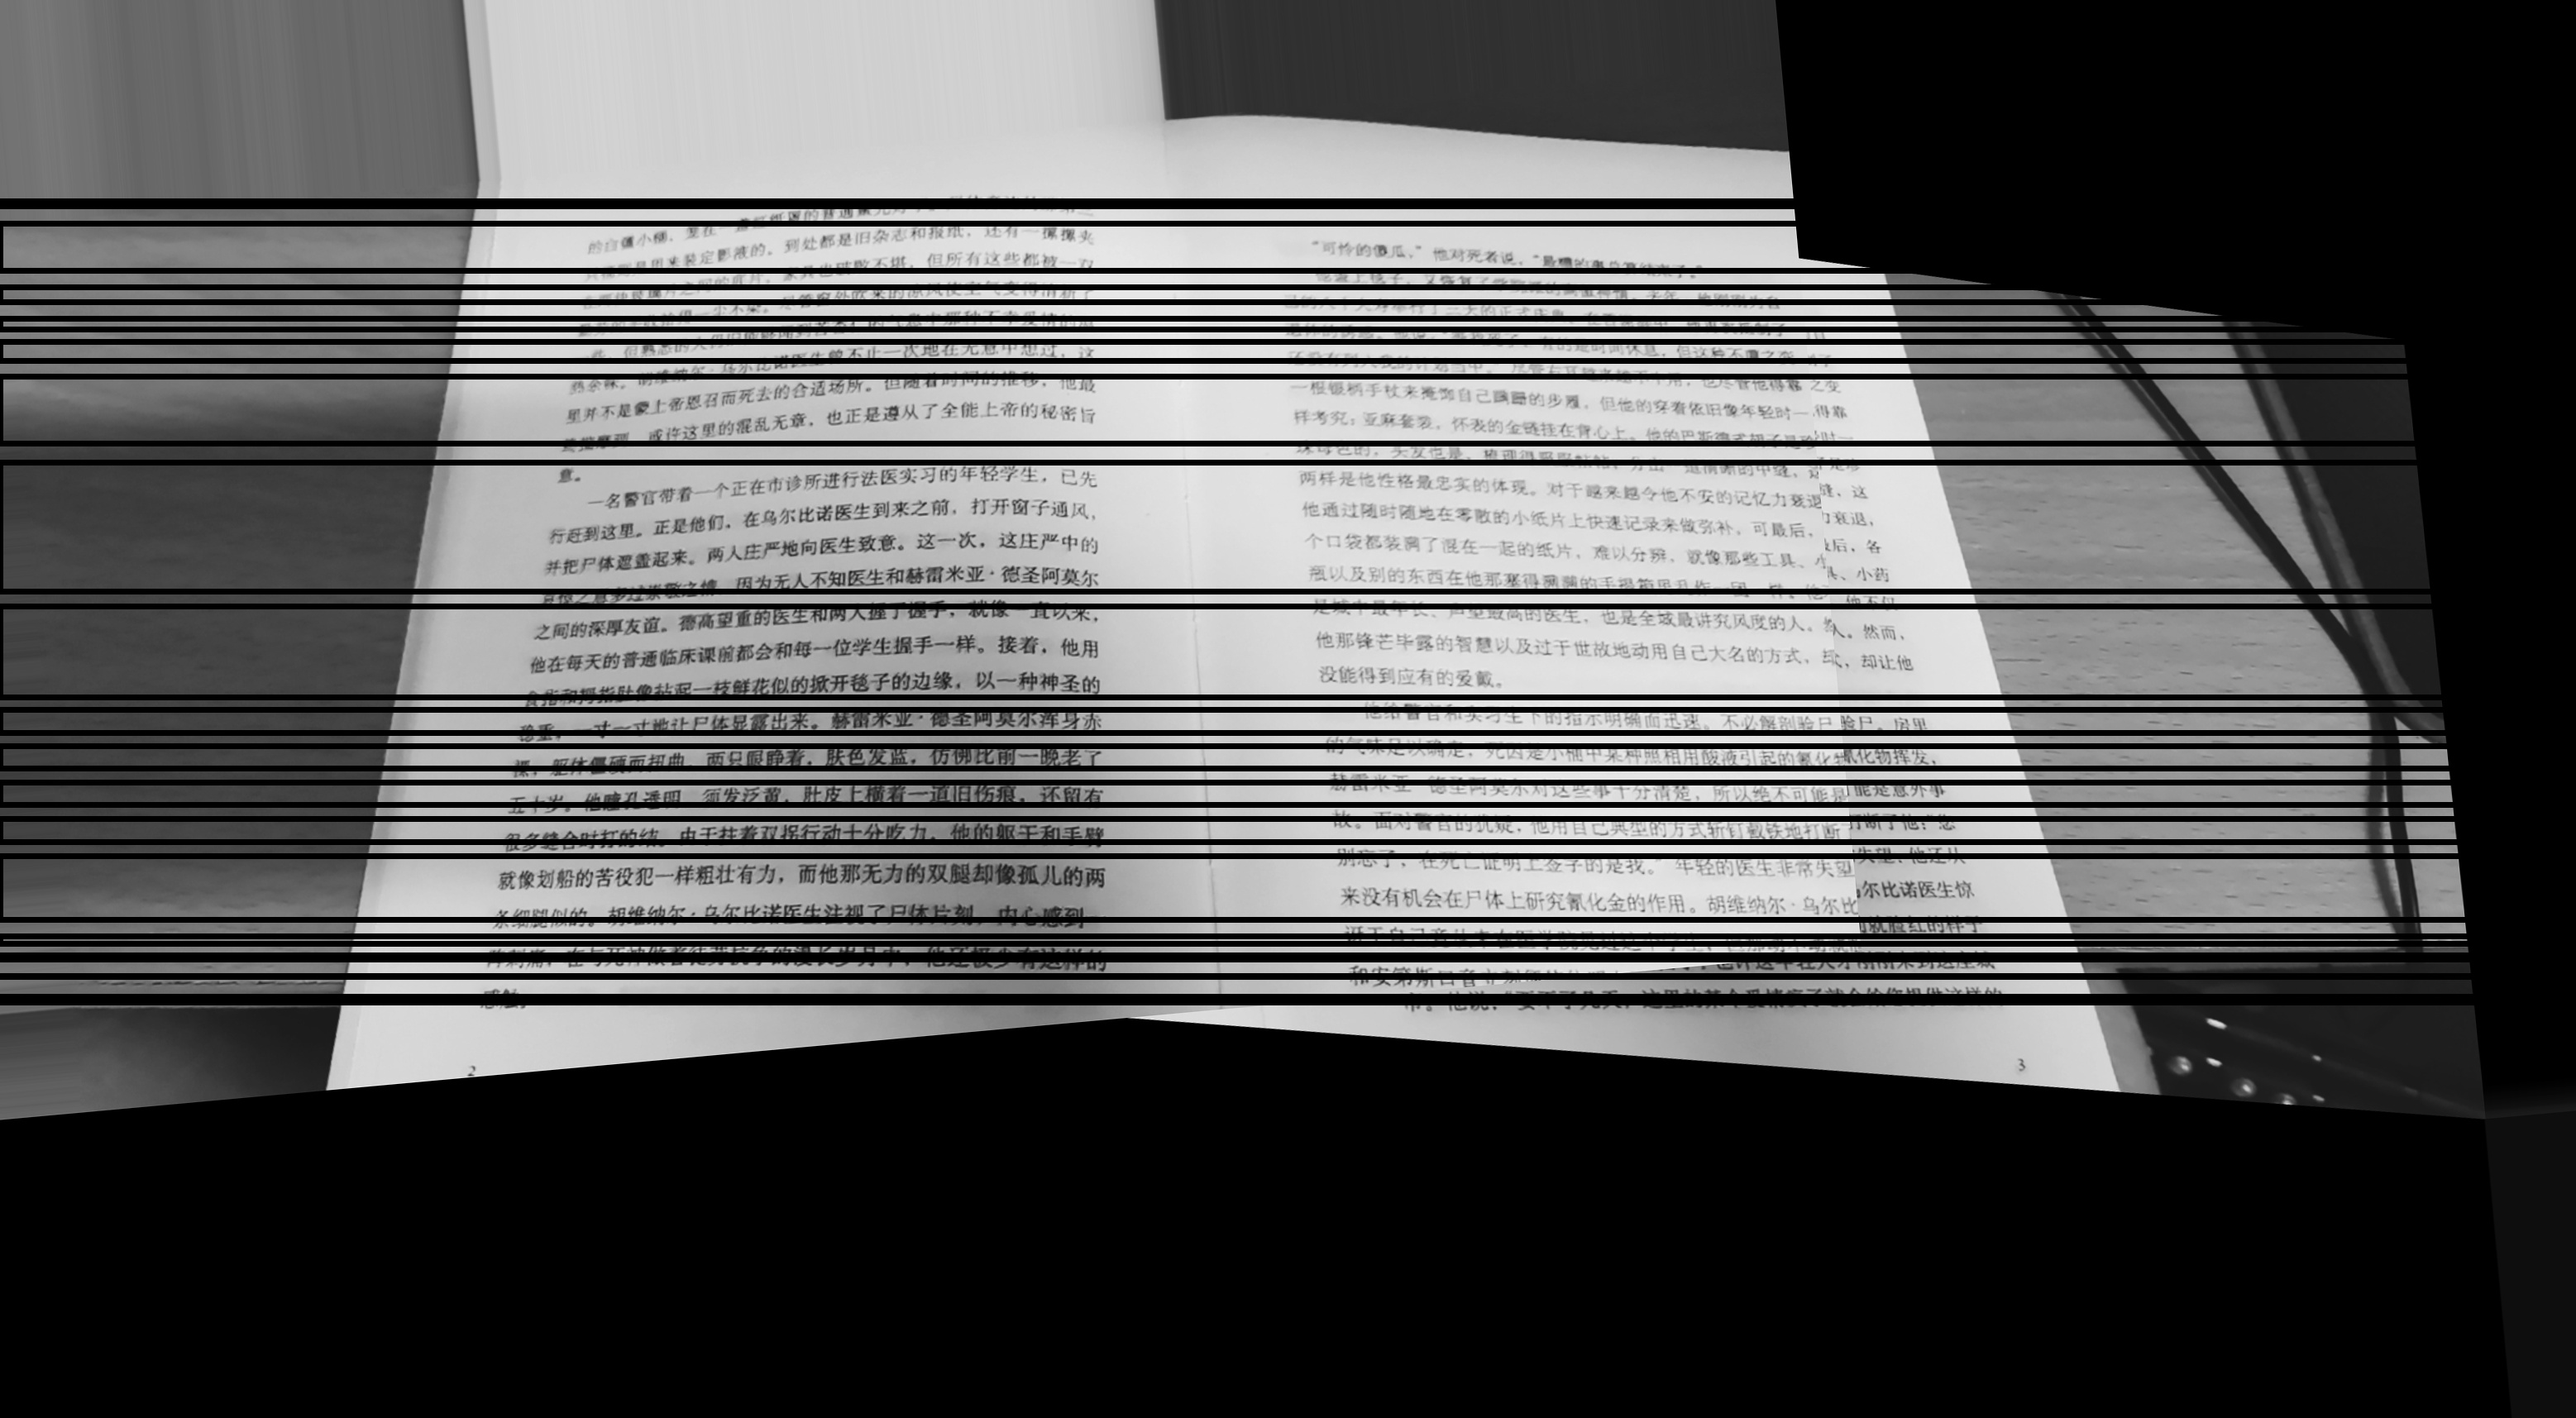
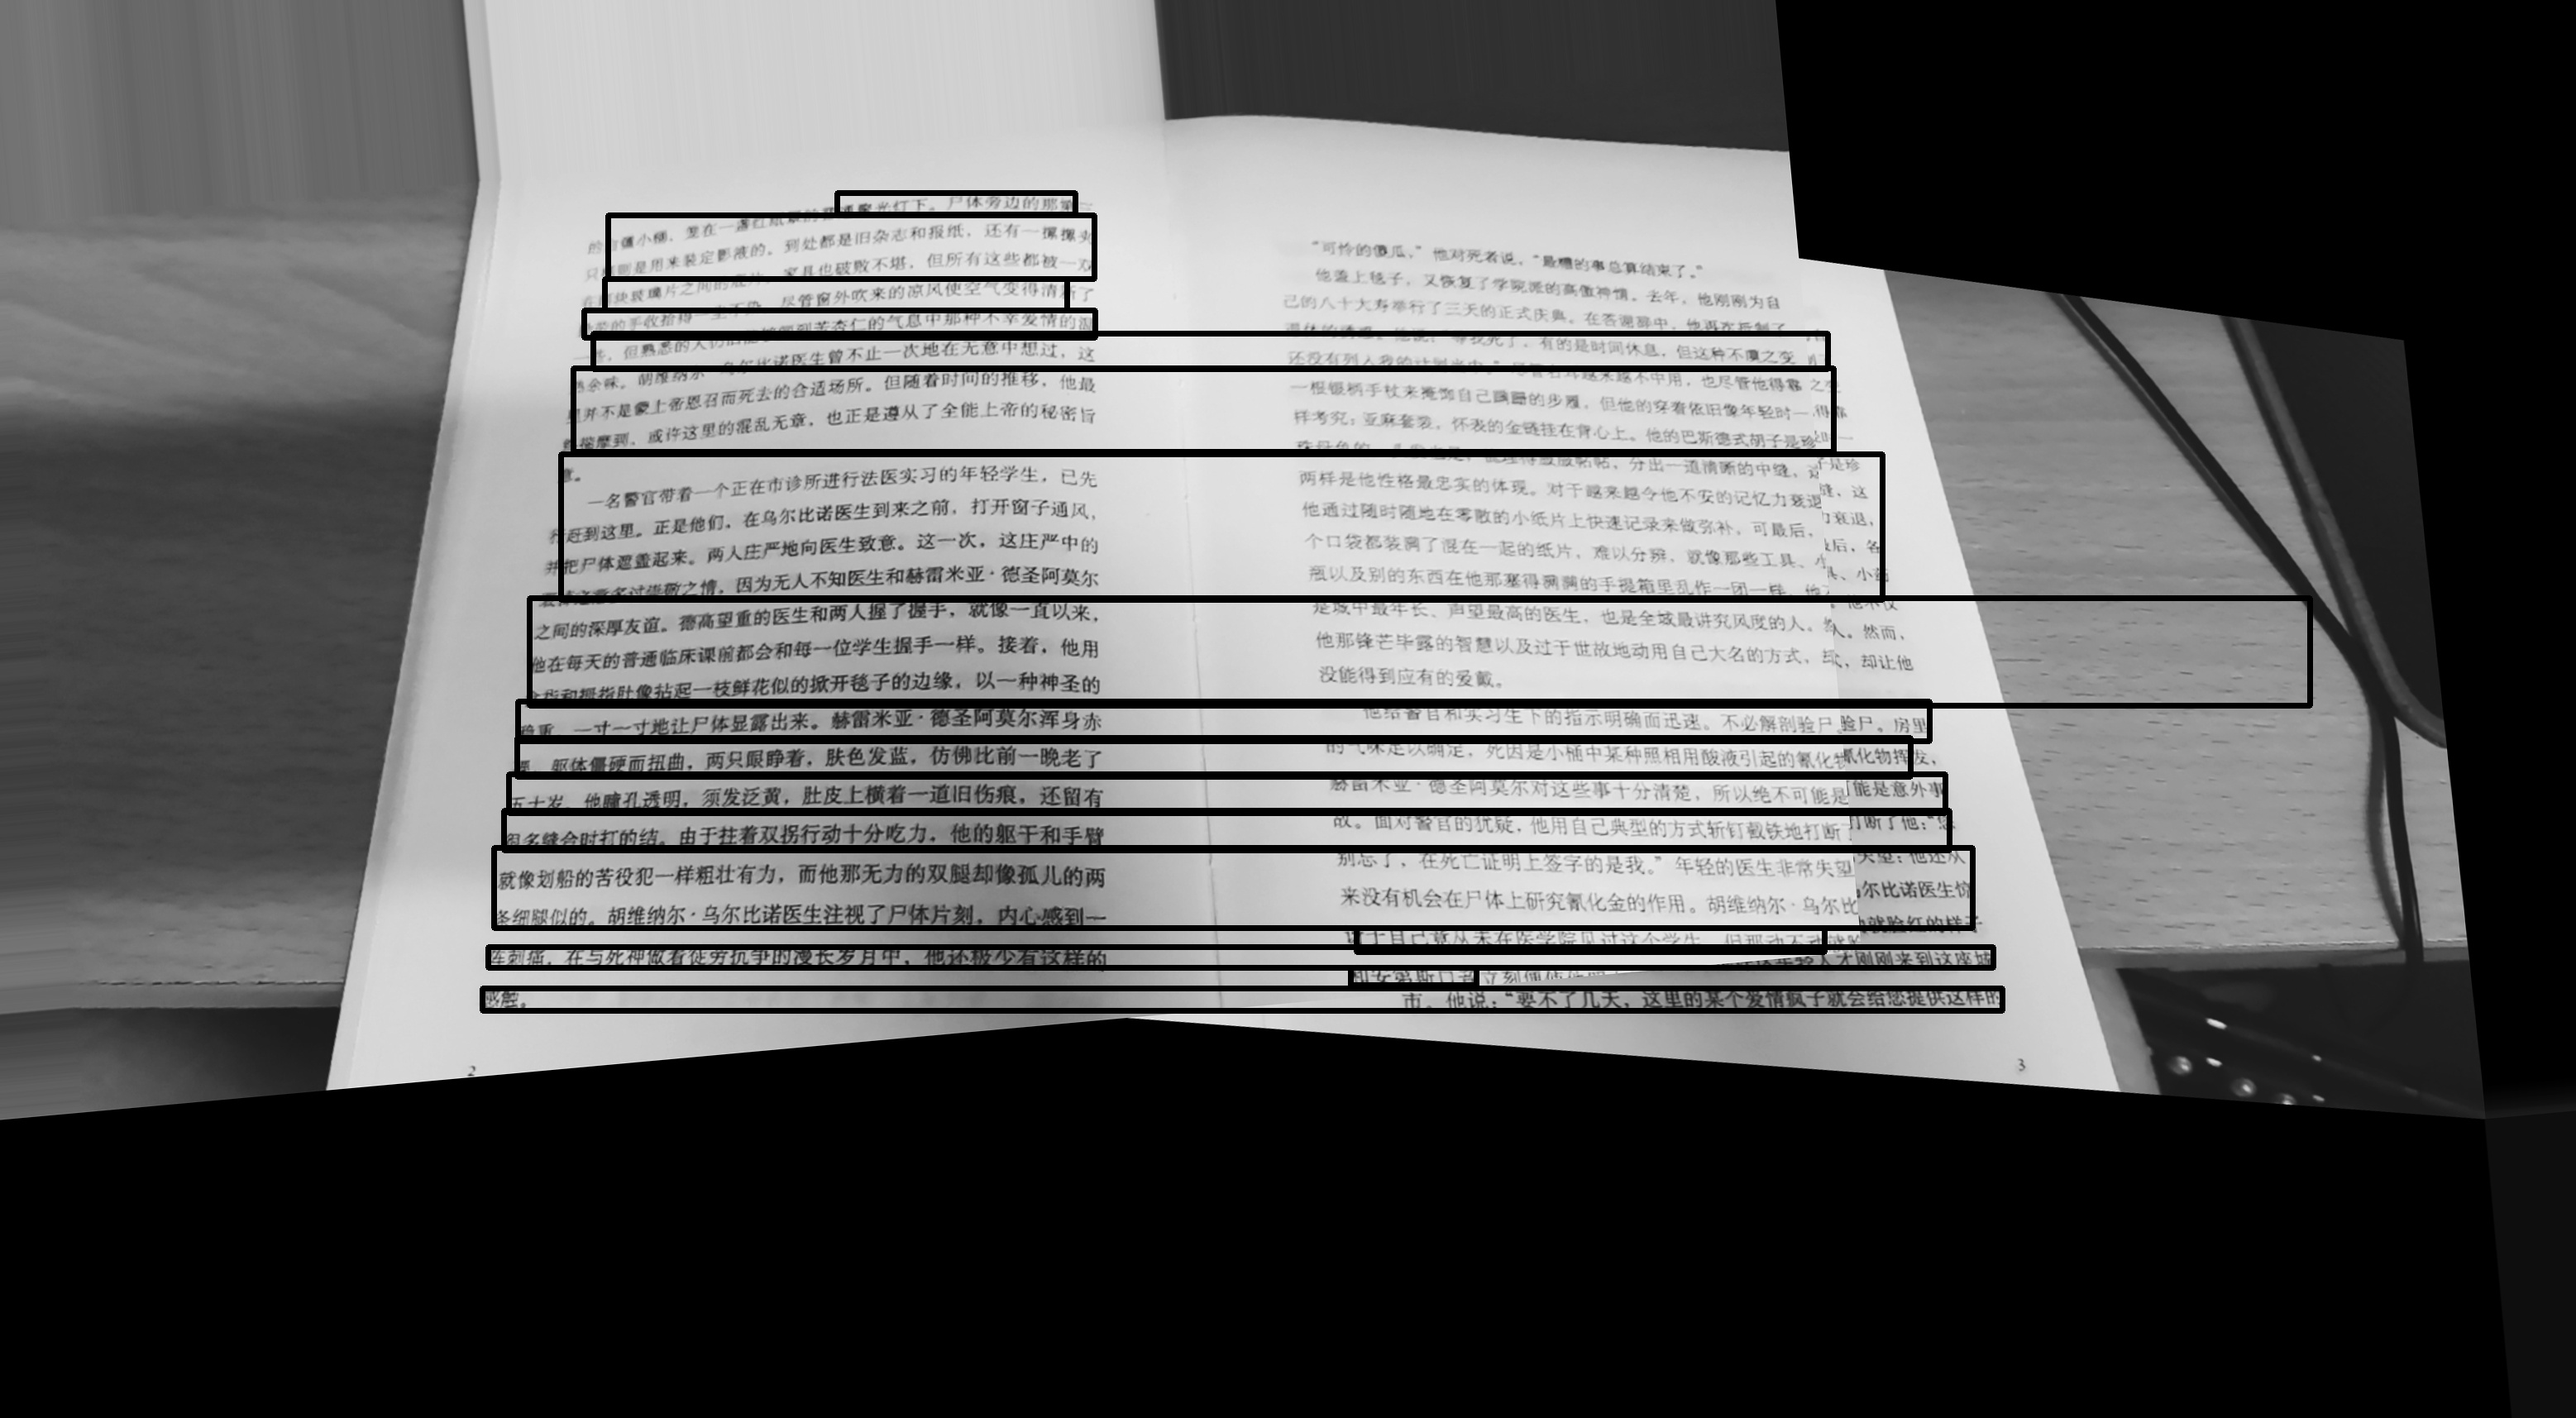
correct the judgment method of left and right boundary of text line

diff --git a/text_find.py b/text_find.py
@@ -126,6 +126,7 @@ def level_map(img_gray):
             map_ans.append(i)
     # print(map_ans)
 
+    # 判断是否存在连续序列，并初步提取
     lists_mapping = []
     list_mapping = []
     for i in range(1, len(map_ans)):
@@ -138,6 +139,7 @@ def level_map(img_gray):
         if len(lists_mapping) == 0 or (len(lists_mapping) != 0 and list_mapping != lists_mapping[-1]):
             lists_mapping.append(list_mapping)
 
+    # 去重
     lists_mapping_new = []
     for list_mapping in lists_mapping:
         if list_mapping not in lists_mapping_new:
@@ -145,23 +147,36 @@ def level_map(img_gray):
     return lists_mapping_new
 
 
-def get_roi(img_gray, lists_mapping):
-    h, w = img_gray.shape
-    lists_mapping = trans_min_max(lists_mapping)
+def get_roi(img_gray, lists_mapping, pts):
     for list_mapping in lists_mapping:
-        pt1 = np.array([0, list_mapping[0]], np.int).tolist()
-        pt2 = np.array([w, list_mapping[1]], np.int).tolist()
-        cv2.rectangle(img_gray, tuple(pt1), tuple(pt2), (0, 255, 0), 5)
+        h_min = list_mapping[0]
+        h_max = list_mapping[-1]
+
+        # 检测行范围内pts的存在，并以存在的pts左右两端为文本行左右边界
+        pts_w = []
+        pts_h = pts[:, 1]
+        for i in range(len(pts_h)):
+            pt_h = pts_h[i]
+            if h_min-10 <= pt_h <= h_max+10:
+                pts_w.append(pts[i, 0])
+
+        pt1 = np.array([min(pts_w) - 10, h_min - 10], np.int).tolist()
+        pt2 = np.array([max(pts_w) + 10, h_max + 10], np.int).tolist()
+        cv2.rectangle(img_gray, tuple(pt1), tuple(pt2), 0, 5)
     return img_gray
 
 
-def trans_min_max(lists_mapping):
-    length = len(lists_mapping)
-    lists_mapping_new = np.zeros((length, 2))
-    for i in range(length):
-        list_mapping = lists_mapping[i]
-        lists_mapping_new[i, :] = [list_mapping[0], list_mapping[-1]]
-    return lists_mapping_new.astype(np.int)
+def get_whole_roi(img_gray, pts, img_w, img_h):
+    # get the text roi
+    img_new_1 = np.ones_like(img_gray) * 255
+    img_new_2 = np.ones_like(img_gray) * 255
+    for pt in pts:
+        cv2.line(img_new_1, (0, pt[1]), (img_w, pt[1]), 0, 1)
+        cv2.line(img_new_2, (pt[0], 0), (pt[0], img_h), 0, 1)
+    img_new_1 = cv2.morphologyEx(img_new_1, cv2.MORPH_OPEN, np.ones((5, 5)))
+    img_new_2 = cv2.morphologyEx(img_new_2, cv2.MORPH_OPEN, np.ones((5, 5)))
+    img_new = img_new_1 + img_new_2
+    return img_new
 
 
 def detect(img_gray, norm=1.2):
@@ -196,24 +211,17 @@ def detect(img_gray, norm=1.2):
     pts = pts.astype(np.int)
 
     # get the text roi
-    img_new_1 = np.ones_like(img_gray) * 255
-    img_new_2 = np.ones_like(img_gray) * 255
-    for pt in pts:
-        cv2.line(img_new_1, (0, pt[1]), (img_w, pt[1]), 0, 1)
-        cv2.line(img_new_2, (pt[0], 0), (pt[0], img_h), 0, 1)
-    img_new_1 = cv2.morphologyEx(img_new_1, cv2.MORPH_OPEN, np.ones((5, 5)))
-    img_new_2 = cv2.morphologyEx(img_new_2, cv2.MORPH_OPEN, np.ones((5, 5)))
-    img_new = img_new_1 + img_new_2
+    img_text_whole_roi = get_whole_roi(img_gray, pts, img_w, img_h)
 
     # get the lines
-    lists_mapping = level_map(img_new)
+    lists_mapping = level_map(img_text_whole_roi)
     lists_mapping_new = []
     for list_mapping in lists_mapping:
         if len(list_mapping) >= 1:
             lists_mapping_new.append(list_mapping)
-    print(len(lists_mapping_new))
+    # print(len(lists_mapping_new))
 
-    return lists_mapping_new
+    return lists_mapping_new, pts
 
 
 if __name__ == '__main__':

diff --git a/main.py b/main.py
@@ -29,8 +29,8 @@ def main():
 
     # 利用MSER检测找到文字大致范围并框选出来
     print("----finding the text----")
-    text_area = detect(img_rotated, norm=2)
-    img_text_area = get_roi(img_rotated, text_area)
+    text_area, pts = detect(img_rotated, norm=2)
+    img_text_area = get_roi(img_rotated, text_area, pts)
     cv2.imwrite("./find_text_result/" + str(number) + ".jpg", img_text_area)
 
     print("----Done----")
